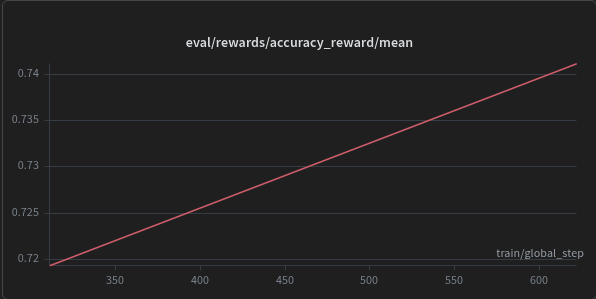
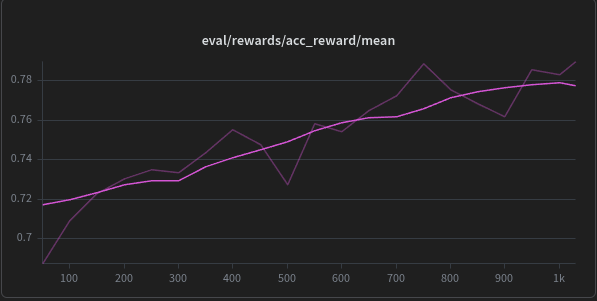
Update the readme with training information

diff --git a/README.md b/README.md
@@ -24,6 +24,60 @@ By isolating these internal components, we will study:
 - **Self-Attention**: To evaluate if *RLVR* merely establishes pathways toward the correct answer.
 - **MLP**: To check if *RLVR* alters weights or activations within the feed-forward layers, which would strongly suggest the acquisition of new knowledge/features.
 
+# Training Setup
+
+## Supervised Fine-Tuning
+For the SFT stage, I used the NuminaMath-CoT dataset. This choice is motivated by recent work suggesting that a strong supervised fine-tuning phase is important before applying RLVR, since it provides the model with basic mathematical reasoning patterns, solution structure, and the desired response format.
+
+The SFT model achieves a high `mean_token_accuracy`, which indicates that it has learned to imitate the supervised solutions effectively, including the expected reasoning format and mathematical answer structure. However, this metric should mainly be interpreted as a measure of supervised imitation quality, rather than as direct evidence of robust mathematical generalization.
+
+## RLVR Training
+For the RLVR stage, I constructed a mixed mathematical dataset composed of:
+
+1. GSM8K  
+2. MATH-Lighteval, filtered by specific levels and topics  
+3. DAPO-Math-17k, filtered for sample number
+
+The goal of this dataset mixture is to expose the model to heterogeneous mathematical problems, ranging from grade-school arithmetic reasoning to more diverse competition-style problems. While SFT teaches the model to imitate supervised reasoning traces, RLVR is used to further optimize the model toward solution trajectories that maximize verifiable correctness.
+
+In this sense, RLVR is not assumed to create OOD generalization by itself. Instead, the training setup is designed to test whether reward-based optimization over a heterogeneous dataset can improve both in-distribution accuracy and out-of-distribution generalization.
+
+## RLVR Configuration
+For RLVR training, I used the Hugging Face `trl` library, specifically `GRPOConfig` and `GRPOTrainer`.
+
+The main hyperparameters were:
+
+- learning rate: `2e-6`
+- maximum completion length: `2000`
+- loss type: `dapo`
+
+I used the DAPO loss because the model does not produce extremely long chain-of-thought completions and because completion lengths are relatively variable across samples.
+
+The training setup also used DeepSpeed for memory-efficient distributed optimization and vLLM for faster generation during RLVR sampling.
+
+## Reward Function
+
+The reward function is inspired by the DeepSeek-R1 training setup and combines an accuracy reward with a format reward.
+
+The accuracy reward assigns:
+
+- `+1.0` if the final answer is correct
+- `0.0` otherwise
+
+The format reward assigns:
+
+- `+1.0` if the completion follows the required response format
+- `0.0` otherwise
+
+Since the model already learns the target format during SFT, the format reward is given a small weight of `0.01`. The main objective of RLVR is therefore to maximize mathematical correctness rather than simply reinforce formatting behavior.
+
+The total reward can be written as:
+$R = R_{\text{accuracy}} + 0.01 R_{\text{format}}$ where $R_{\text{accuracy}}$ is the dominant component.
+
+![alt text](image.png)
+
+1. **Generated** : 
+
 # Experiments List
 
 1. **Component-Level Representation Comparison**
@@ -38,36 +92,4 @@ By isolating these internal components, we will study:
     
     To quantify parameter updates, we will compute the $L_2$ norm of the weight differences: $||W_{RLVR} - W_{SFT}||$ and $||W_{RLVR} - W_v||$. To overcome the limitations of $L_2$ orms in overparameterized networks, we will perform Singular Value Decomposition (SVD) on the weight difference matrix $\Delta W$. If *RLVR* primarily acts as a steering mechanism, the weight updates should exhibit a low rank and concentrate in specific routing heads rather than MLP layers.
 
-# Training Setup
 
-We have chosen Qwen2.5-3B and Mistral ## as the model on which the perform our experiments. We have trained them, first train was with Super-Vised Fine-Tuning on GSM-8K, and secondo train was with RLVR on GSM-8K, this is how we got it Qwen2.5-G1-3B and Mistral##. 
-
-## Rewards
-
-We have used three different reward : 
-
-- **Format Reward :** That control if the model output follows the format instruction, give the model $+1$ if the formato is follows, and give the model $-1$ if the format is not follows, we call it $R_f$
-- **Accuracy Reward :** Check if the model answer is mathematics correct, give the model $+1$ if is correct else $0$, we call it $R_a$
-- **Concise-Accuracy Reward :** It is a condional bonus on correcteness that decreases with the lenght of model answer and increases over time through a curriculum. We indicate :
-    - $t$ : as global_step of trainer
-    - $L$ : token-lenght of the completions (model answer)
-    - $y$  : ground-truth
-    - $\hat{y}$ : mathematics model answer
-    
-    Now define the accuracy function as follows : 
-    
-    $$C(\hat{y}, y) = \begin{cases} 1 \text{ if } y = \hat{y} \\ 0 \text{ else} \end{cases}$$
-
-    The reward use a progressive activation, which we have defined as $\alpha(t) = \min(1, \frac{t}{200})$.
-    Now define $L_t$, which is the token-lenght target and $S$, which is fade-span, then we compute $\text{overflow}(L) = max(0, L-L_0)$ and concise bonus $b(L) =max(0, 1 - \frac{\text{overflow}(L)}{S})$. In the end we have $R_{ca} = \alpha(t)C(\hat{y},y)b(L)$
-    
-
-The final reward function is : $R = \lambda_f R_f + \lambda_a R_a + \lambda_{ca} R_{ca}$ that are : $[1.0, 0.2,0.1]$,
-We have used $R_{ca}$ why in the first train, where we have used only $R_f$ and $R_a$, we have noticed an high $cap\_ratio$.
-
-## Training Result
-Training result are was good. The model (Qwen2.5-G1-3B) respect the format and has a good mathematics accuracy
-
-![alt text](readme_imgs/image-1.png) ![alt-text](readme_imgs/image.png)
-
-Also the lenght of answer is good, we have mean_terminated_lenght $\sim  185$, this is means that all model answer has $ \sim 185 $ tokens, the clip_rato $\approx 0$. So now we have a model that solves mathematics discretely.